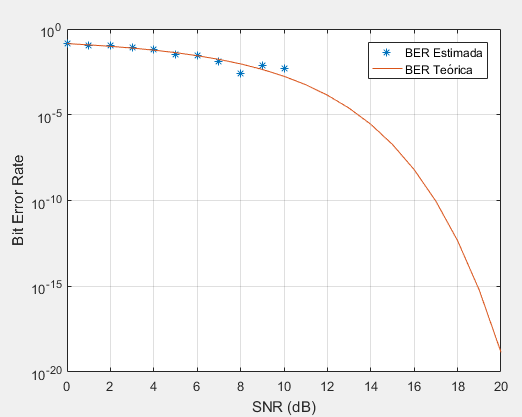
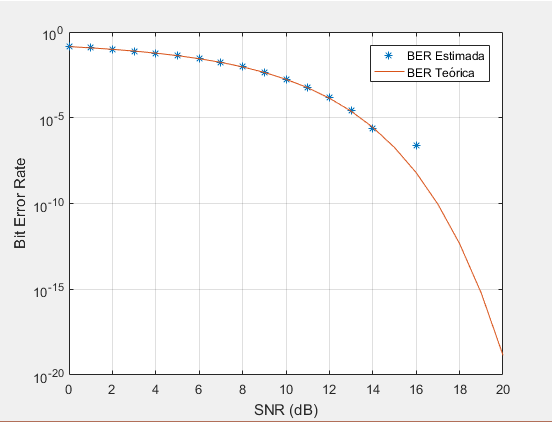
Inserção do passo 2 sobre OFDM, não funcional até o momento

diff --git a/comunicacoes-digitais-ii/ofdm/ofdm.m b/comunicacoes-digitais-ii/ofdm/ofdm.m
@@ -1,10 +1,14 @@
 clear all;
 clc;
 
-M = 16;                 % Modulation order
+M = 64;                 % Modulation order
 k = log2(M);            % Bits per symbol
 EbNoVec = (0:20)';      % Eb/No values (dB)
-numSymPerFrame = 1000000;   % Number of QAM symbols per frame
+N = 1000000;   % Number of QAM symbols per frame
+
+L = 2;                 % Tamanho prefixo ciclico
+canal = [1 -0.5 0.3]'; % Canal
+H = fft([canal; zeros(N-(L+1),1)]); % funcao de transferencia
 
 for n = 1:length(EbNoVec)
     % Convert Eb/No to SNR
@@ -14,17 +18,25 @@ for n = 1:length(EbNoVec)
     numBits = 0;
     
     % Generate binary data and convert to symbols
-    dataIn = randi([0 1],numSymPerFrame,k);
+    dataIn = randi([0 1],N,k);
     dataSym = bi2de(dataIn);
         
     % QAM modulate using 'Gray' symbol mapping
     txSig = qammod(dataSym,M);
-       
+    
+    s_ifft = ifft(txSig);
+    s_pref = [s_ifft(N-1); s_ifft(N); s_ifft]; % adicionando prefixo ciclico.
+    
+    %% Passando pelo canal
+    s_conv = conv(s_pref,canal);
+    
     % Pass through AWGN channel
-    rxSig = awgn(txSig,snrdB,'measured');
+    rxSig = awgn(s_conv,snrdB,'measured');
         
-    % Demodulate the noisy signal
-    rxSym = qamdemod(rxSig,M);
+    r = rxSig(L+1:N+L); % retirando prefixo
+    r_fft = fft(r); % Aplicando DFT    
+    rxSym = qamdemod(r_fft,M);
+    
     % Convert received symbols to bits
     dataOut = de2bi(rxSym,k);
         
@@ -33,7 +45,7 @@ for n = 1:length(EbNoVec)
         
     % Increment the error and bit counters
     numErrs = numErrs + nErrors;
-    numBits = numBits + numSymPerFrame*k;
+    numBits = numBits + N*k;
     
     % Estimate the BER
     berEst(n) = numErrs/numBits;

diff --git a/comunicacoes-digitais-ii/ofdm/exemplo.m b/comunicacoes-digitais-ii/ofdm/exemplo.m
@@ -7,7 +7,7 @@ pkg load communications % necessario caso Octave
 
 N = 8; %Tamanho simbolo OFDM
 L = 2; %Tamanho prefixo ciclico
-M = 16; %Ordem da modulacao
+M = 16; % Ordem da modulacao
 h = [1 -0.5 0.3]'; %resposta ao impulso
 H = fft([h; zeros(N-(L+1),1)]); % funcao de transferencia
 
